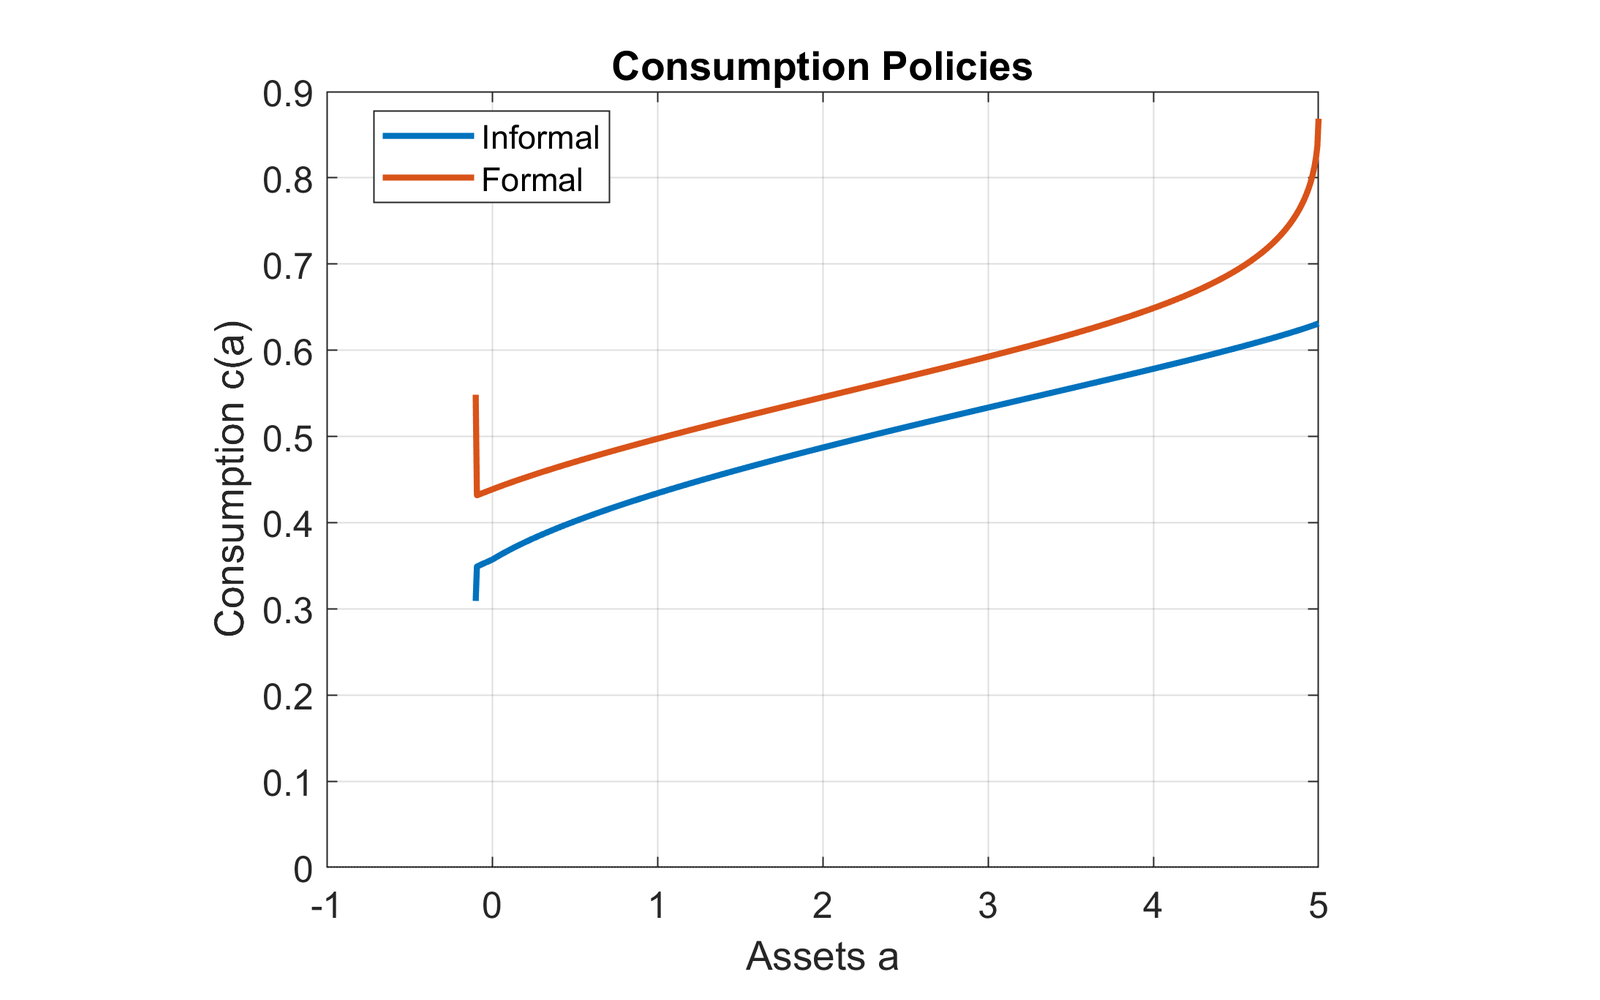
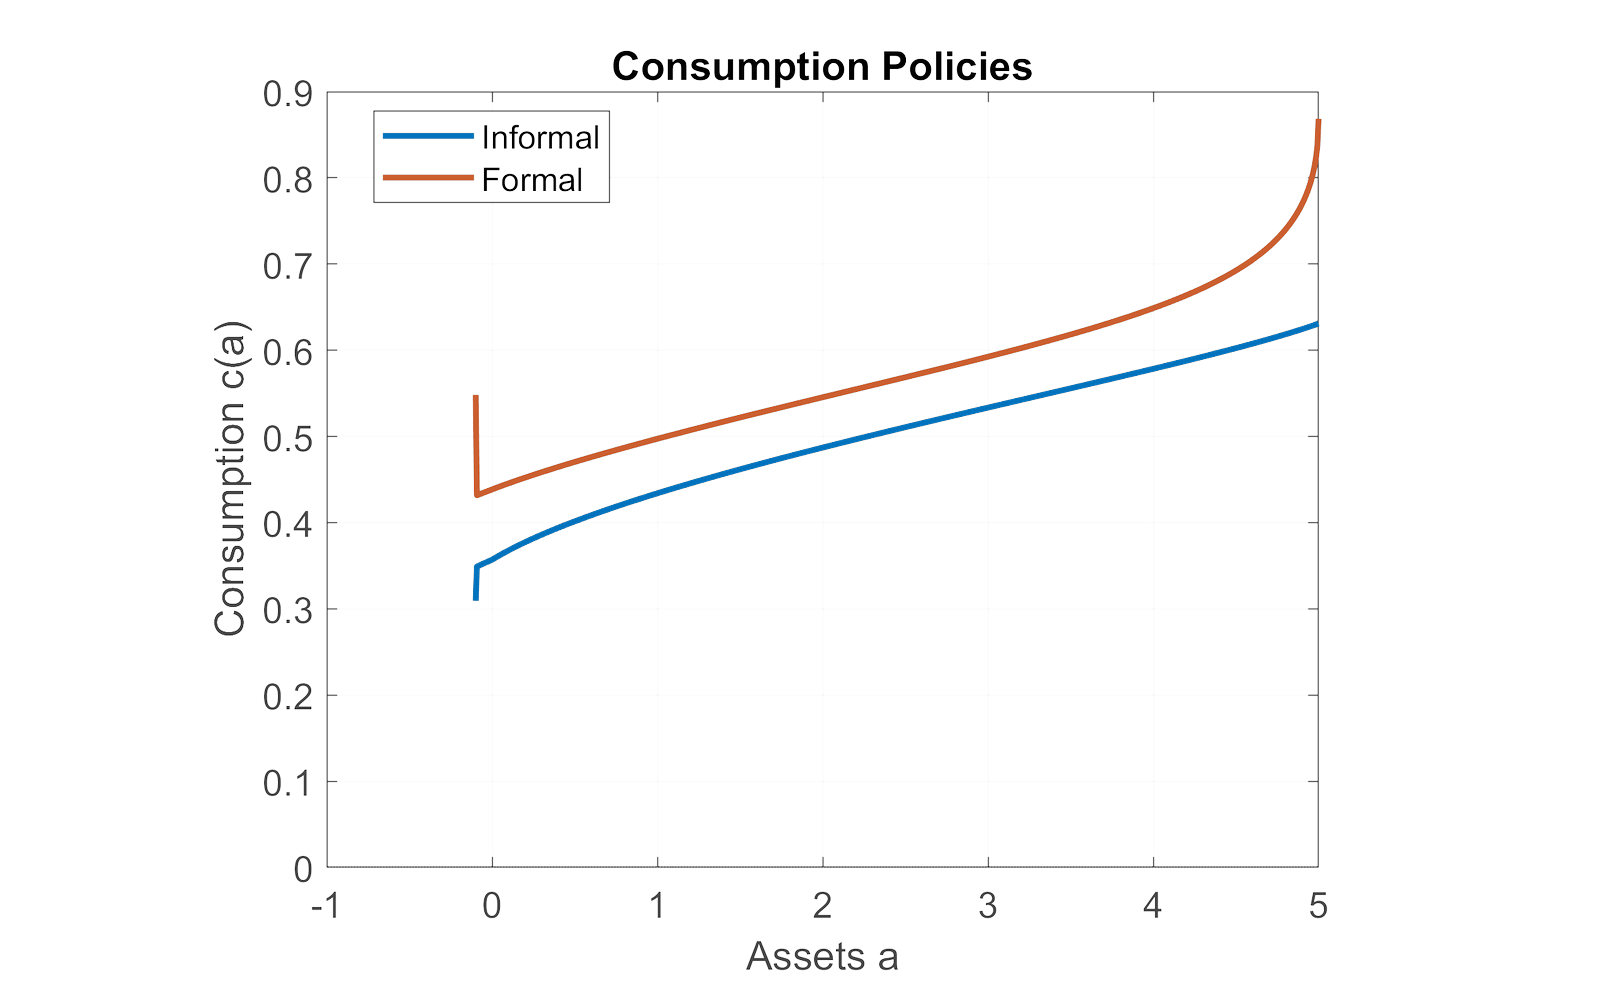
Modify Captions

diff --git a/_projects/3_tax_policy_inequality.md b/_projects/3_tax_policy_inequality.md
@@ -2,9 +2,11 @@
 layout: page
 title: Tax policy, growth and inequality in Bolivia
 description: A heterogeneous-agent overlapping-generations model of labor and consumption taxes
-img: assets/img/projects/tax_policy_inequality.jpg
+img: assets/img/projects/tax_policy_inequality.png
 importance: 3
 category: Research
+_styles: >
+  html[data-theme="dark"] .adaptive-img { filter: invert(1) hue-rotate(180deg); }
 ---
 
 **Paper:** Monzón, C., Ramos, C. and Romero, I. (2025). *Growth-Inequality Trade-off in Tax Policy: A Heterogeneous Agents Approach.* [SSRN](https://papers.ssrn.com/sol3/papers.cfm?abstract_id=5139413)
@@ -13,7 +15,7 @@ The study analyzes how changes in labor and consumption taxes affect macroeconom
 
 **Findings.** Lower tax rates raise capital accumulation, labor supply and growth, mainly benefiting deciles 6 to 9, but they reduce the income share of lower-income groups and raise the Gini coefficient. Tax increases have the opposite effects.
 
-{% include figure.liquid loading="eager" path="assets/img/projects/bolivia_income_by_percentile_3d.jpg" title="Household income per capita by percentile, Bolivia 2005-2023" class="img-fluid rounded z-depth-1" %}
+{% include figure.liquid loading="eager" path="assets/img/projects/bolivia_income_by_percentile_3d.png" title="Household income per capita by percentile, Bolivia 2005-2023" class="img-fluid adaptive-img" %}
 <div class="caption">
   Household income per capita by percentile in Bolivia, 2005–2023, from the Household Survey (EH). Code: <a href="https://github.com/pcesar-ramosh/Income_Dist_Households">Income_Dist_Households</a>.
 </div>

diff --git a/_projects/1_fiscal_policy_informality.md b/_projects/1_fiscal_policy_informality.md
@@ -5,6 +5,8 @@ description: A heterogeneous-agent model of fiscal policy in economies with high
 img: assets/img/projects/fiscal_policy_informality.png
 importance: 1
 category: Research
+_styles: >
+  html[data-theme="dark"] .adaptive-img { filter: invert(1) hue-rotate(180deg); }
 ---
 
 **Question.** What are the effects of fiscal policy on wealth and consumption distribution in an economy with high informality?
@@ -19,10 +21,10 @@ This project was my M.Sc. thesis in Economic Engineering at the Universidad Naci
 
 <div class="row">
   <div class="col-sm mt-3 mt-md-0">
-    {% include figure.liquid loading="eager" path="assets/img/projects/thesis_consumption_policies.png" title="Consumption policy functions" class="img-fluid rounded z-depth-1" %}
+    {% include figure.liquid loading="eager" path="assets/img/projects/thesis_consumption_policies.png" title="Consumption policy functions" class="img-fluid adaptive-img" %}
   </div>
   <div class="col-sm mt-3 mt-md-0">
-    {% include figure.liquid loading="eager" path="assets/img/projects/thesis_lorenz_wealth.png" title="Lorenz curve of wealth" class="img-fluid rounded z-depth-1" %}
+    {% include figure.liquid loading="eager" path="assets/img/projects/thesis_lorenz_wealth.png" title="Lorenz curve of wealth" class="img-fluid adaptive-img" %}
   </div>
 </div>
 <div class="caption">

diff --git a/_pages/projects.md b/_pages/projects.md
@@ -11,6 +11,7 @@ _styles: >
   .projects .card-title { font-size: 1.2rem; line-height: 1.35; margin-bottom: 0.4rem; }
   .projects .card-text { font-size: 0.9rem; }
   .projects .card-img-top { aspect-ratio: 16 / 10; object-fit: cover; }
+  html[data-theme="dark"] .projects .card-img-top { filter: invert(1) hue-rotate(180deg); }
 ---
 
 <!-- pages/projects.md -->
